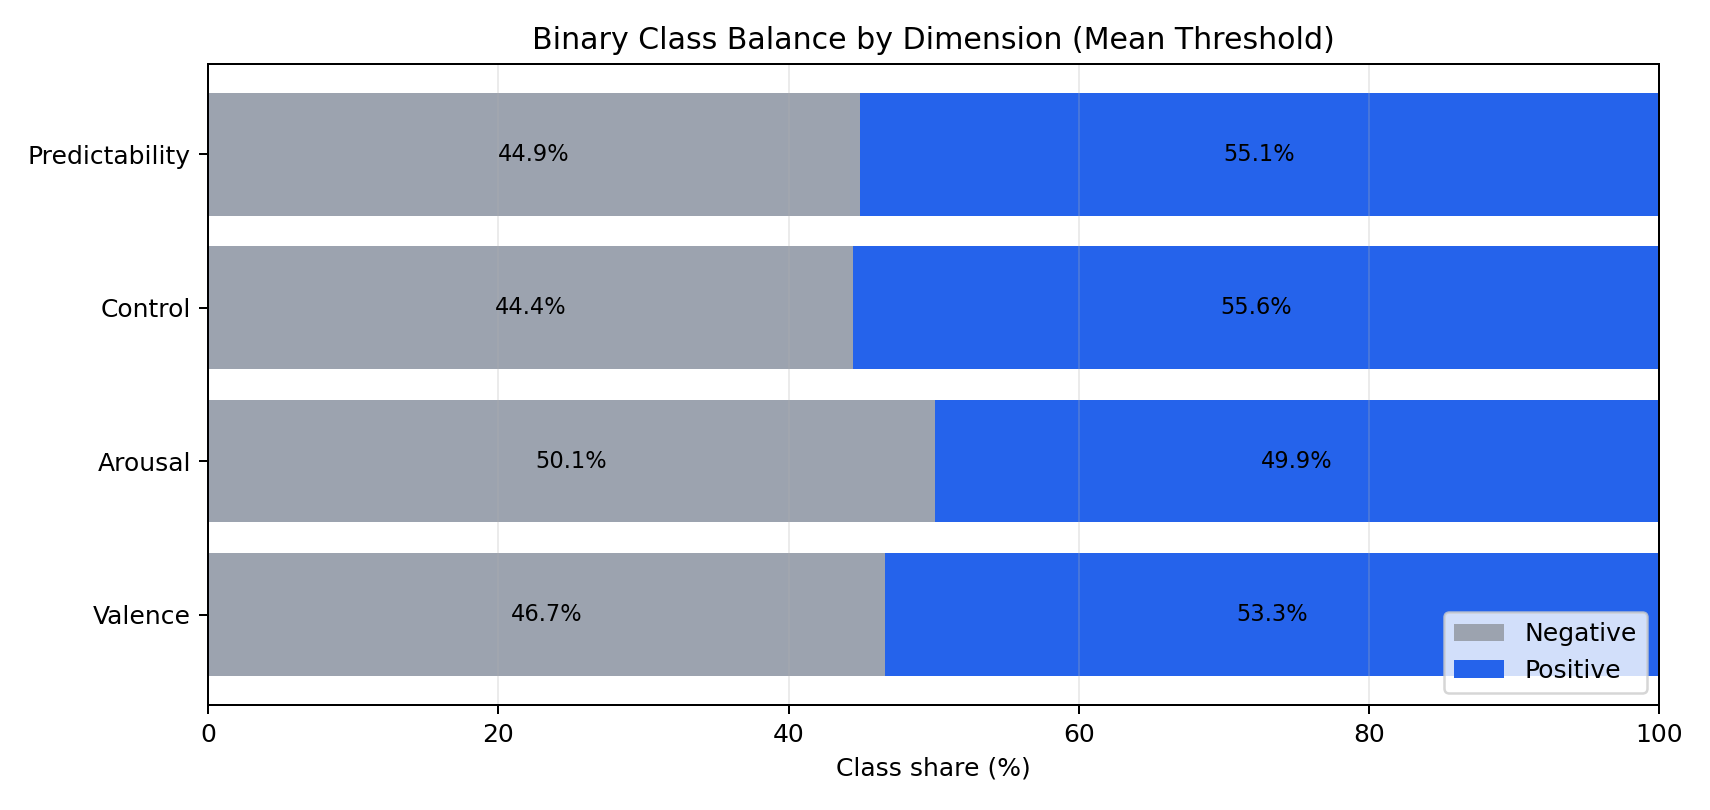
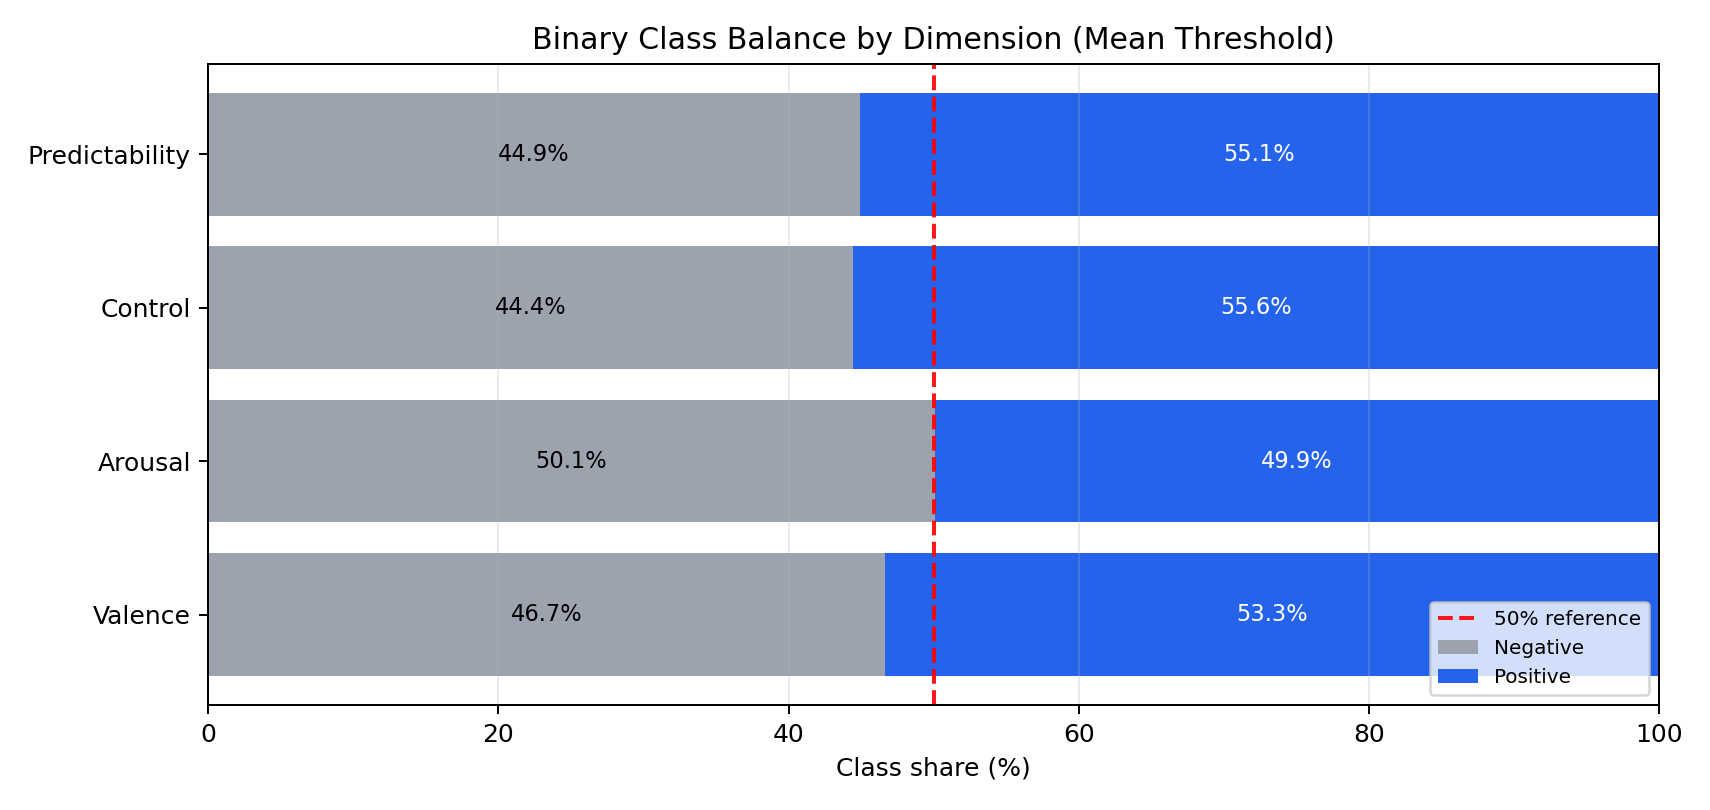
minor

diff --git a/docs/hci-tagging-described.md b/docs/hci-tagging-described.md
@@ -44,6 +44,13 @@
 
 ![Emotion ID distribution (training-ready)](figures/hci-tagging/emotion_id_distribution_training_ready.png)
 
+### How labels are assigned in HCI emotion-elicitation
+- `emotion-id` is a categorical felt-emotion label (observed IDs in this cache: `0, 1, 2, 3, 4, 5, 6, 11, 12`).
+- `emotion-valence`, `emotion-arousal`, `emotion-control`, and `emotion-predictability` are integer ratings on a **1-9** scale.
+- In this processed cache, labels are effectively **one set per (subject, recording) trial** and repeated across all time rows for that trial.
+- Verified on `emotion-derivation-status = ok`: for every `(subject, recording)` group, each emotion label column has exactly one unique value.
+- Label source in conversion: first from `session.xml` (`feltEmo`, `feltArsl`, `feltVlnc`, `feltCtrl`, `feltPred`), with Guide-Cut fallback when needed.
+
 ### Continuous emotion dimensions used in binary/regression tasks
 - Available dimensions: `emotion-valence`, `emotion-arousal`, `emotion-control`, `emotion-predictability`.
 - In binary experiments, thresholds are computed from train split (default config uses `mean`).
@@ -56,8 +63,6 @@
 | Control | 4.8779 | 1,341,526 | 1,676,921 | 55.56% |
 | Predictability | 5.7000 | 1,355,879 | 1,662,568 | 55.08% |
 
-![Binary class balance (mean threshold)](figures/hci-tagging/binary_balance_mean_threshold.png)
-
 - Overall class balance with **global median threshold** (reference only):
 
 | Dimension | Median Threshold | Negative | Positive | Positive Rate |
@@ -67,7 +72,25 @@
 | Control | 5.0000 | 1,341,526 | 1,676,921 | 55.56% |
 | Predictability | 6.0000 | 1,355,879 | 1,662,568 | 55.08% |
 
-![Binary class balance (median threshold)](figures/hci-tagging/binary_balance_median_threshold.png)
+- Combined view (upper half = mean-threshold split, lower half = median-threshold split):
+
+![Binary class balance (split mean/median thresholds)](figures/hci-tagging/binary_balance_split_mean_median_global.png)
+
+### Per-dimension binary class balance across emotions (mean vs median thresholds)
+- In each plot, rows are **emotions**.
+- For each emotion row: **upper half = mean-threshold split**, **lower half = median-threshold split**.
+
+#### Valence
+![Valence split by emotion](figures/hci-tagging/binary_balance_split_mean_median_by_emotion_valence.png)
+
+#### Arousal
+![Arousal split by emotion](figures/hci-tagging/binary_balance_split_mean_median_by_emotion_arousal.png)
+
+#### Control
+![Control split by emotion](figures/hci-tagging/binary_balance_split_mean_median_by_emotion_control.png)
+
+#### Predictability
+![Predictability split by emotion](figures/hci-tagging/binary_balance_split_mean_median_by_emotion_predictability.png)
 
 ### Rough distribution characteristics
 - Subject row count spread (training-ready): min **80,991**, median **127,733**, max **158,649**.
